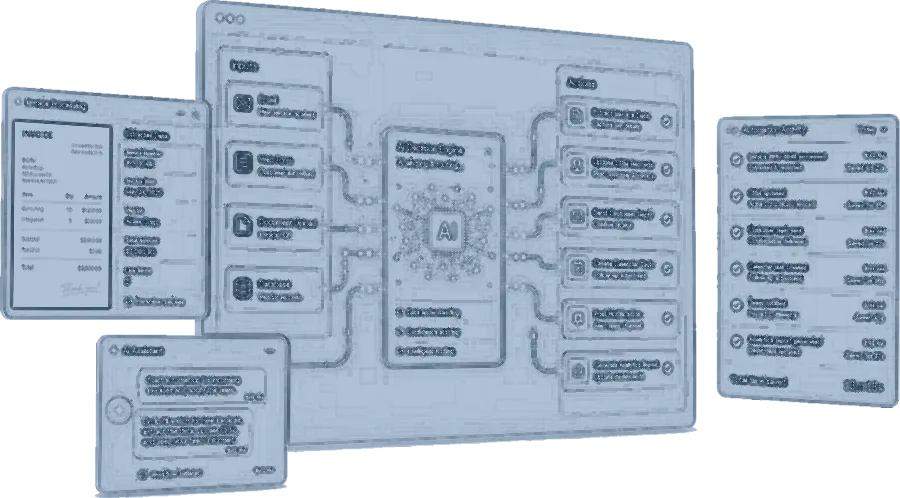
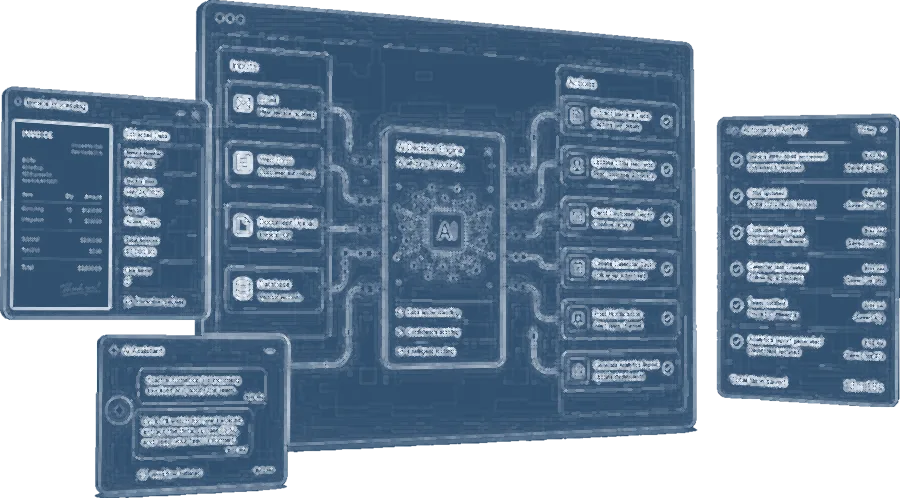
Lift the plate ground instead of turning the drawing over
Reverts the pale panel. A light slab on navy stock is a sticker stuck to the
page -- the failure already recorded against 07's action panel -- and it made
every plate the brightest thing in its chapter.

But the first struck version cannot come back either, and the number says why:
its ground sat at luma 0.235 against a page of 0.204. Three hundredths is not a
plate, and no amount of brightening or thickening the strokes was going to make
one, which is what the last two revisions spent themselves finding out. The
missing thing was the panel, not the ink.

So both colours move and the drawing stays struck. GROUND #31506f is 0.37 --
far enough above the page to read as a panel, nowhere near pale enough to read
as paper. STROKE #f2f7fd is 0.96, brighter than the book's own silver at 0.895,
so the drawing is the brightest thing inside the plate rather than in the
chapter. Medians land 0.30 to 0.42 against the same 0.2036 page, clearing it by
0.17 where the first version cleared it by 0.03.

The negate and Dilate come back with it. Dilate grows the bright region and the
strokes are bright again; the pale revision needed Erode for the same reason
inverted. Turning the drawing over without turning the operator over eats it.

Redrawn from the photographs at 445aec1, not from the sketches: not idempotent.

QA: four viewports, all exit 0, pinned scrollHeight 7911 unchanged.

Claude-Session: https://claude.ai/code/session_01XfAX2YSArtGBqSyEfKFt98

diff --git a/CLAUDE.md b/CLAUDE.md
@@ -1217,28 +1217,35 @@ re-run here.
 - **It is not idempotent.** Sketching a sketch finds edges in the first pass's
   own strokes and doubles them. `git checkout apps/web/public/{services,process,work}`
   before a second run, exactly as `stamp-book-logo.py` requires.
-- **It is graphite on paper, and it shipped struck first.** The first version
-  was made on white and then NEGATED — dark ground, silver strokes — to match
-  01's and 07's engravings, which are painted through luminance masks in
-  `#dce7f7`. It was unreadable. The ground landed at luma 0.235 against a page
-  of 0.204, which is no visible plate at all, and what sat on it was one-pixel
-  silver strokes; 03's six print at 132px. **The rule that actually binds is
-  only that a plate may not be DARKER than the page** — the hole-in-the-page
-  failure — and a light plate was never the problem: the photographs these
-  replace ran 0.29–0.55. So it is a pencil sketch the ordinary way round now, a
-  light panel with the book's own navy drawn on it, and the medians run
-  0.65–0.75.
-- **`INK` is a shade off the page and `PAPER` stops short of white.** A stroke
-  at `#22384f` (0.21) against a page of 0.204 reads as the paper showing
-  through rather than as a black line; `PAPER` at `#aec1d6` (0.72) rather than
-  0.83 keeps the plate from being a lit slab stuck on the page — the sticker
-  failure recorded against 07's action panel. The audit is still
-  `build-process-plates.sh`'s: the MEDIAN against a page luma sampled live off
-  `frame-091` (0.2036). Median and not minimum — a drawing is *supposed* to
-  contain strokes as dark as the page; what it may not be is darker overall.
-- **`PAPER` is the colour and `PAGE_LUMA` is the measurement.** They were both
-  called `PAPER` for one revision and the sampled luma overwrote the colour,
-  which would have fed `+level-colors` a number where it wanted a hex.
+- **It is struck on a LIFTED ground, and both colours had to move to get
+  there.** Two earlier settings of the same two colours failed in opposite
+  directions and both are worth knowing.
+
+  **Too dark.** The first struck version put the ground at luma 0.235 against a
+  page of 0.204 — 0.03 of separation, which is no visible plate at all — with
+  one-pixel silver strokes on it. 03's six print at 132px; nothing read.
+  Brightening and thickening the strokes twice did not fix it, because the
+  missing thing was the PANEL, not the ink.
+
+  **Too light.** So it was turned over: dark lines on a pale panel at 0.72.
+  That read perfectly and was still wrong — a pale slab on navy stock is a
+  sticker stuck to the page, the failure recorded against 07's action panel,
+  and it made every plate the brightest thing in its chapter.
+
+  **The middle is right.** `GROUND #31506f` (0.37) is far enough above the page
+  to read as a panel and nowhere near pale enough to read as paper;
+  `STROKE #f2f7fd` (0.96) is brighter than the book's own silver (0.895), so
+  the drawing is the brightest thing inside the plate rather than in the
+  chapter. Medians run 0.30–0.42.
+- **The audit is `build-process-plates.sh`'s**: the MEDIAN against a page luma
+  sampled live off `frame-091` (0.2036). Median and not minimum — a drawing is
+  *supposed* to contain strokes near the page's own value; what it may not be
+  is darker overall. The 0.37 ground clears it by 0.17 where the first struck
+  version cleared it by 0.03.
+- **The colour is `GROUND`/`STROKE`; the measurement is `PAGE_LUMA`.** The
+  light-panel revision called its colour `PAPER` and the sampled luma `PAPER`
+  too, and the second assignment silently overwrote the first — which would
+  have fed `+level-colors` a number where it wanted a hex.
 - **Two traps, both hit on the way in.** `%[fx:minima]` on an sRGB file is the
   darkest CHANNEL, and `#233c58` has a red of 0.137 against a luma of 0.235, so
   the first audit refused every plate. And 02's five are **keyed** — `srgba`,
@@ -1262,13 +1269,14 @@ re-run here.
   up as speckle with them. `DILATE=1` is the other half and it is thickness
   rather than brightness: one pixel added to every stroke.
 
-  **The thickening operator follows which way up the drawing is.** `Erode`
-  grows the DARK region, and the strokes are dark, so `Erode` is what fattens
-  them; the struck version wanted `Dilate` for the same reason inverted.
-  Swapping the drawing over without swapping the operator eats it instead of
-  thickening it. Whole pixels at both widths rather than a fraction of each,
-  because morphology takes whole-pixel kernels and 900 against 1240 does not
-  separate enough to matter.
+  **The thickening operator follows which way up the drawing is, and it has
+  been both.** `Dilate` grows the BRIGHT region; struck, the strokes are
+  bright, so `Dilate` fattens them. The light-panel revision needed `Erode` for
+  the same reason inverted. **Turn the drawing over without turning the
+  operator over and it eats the drawing instead of thickening it.** Whole
+  pixels at both widths rather than a fraction of each, because morphology
+  takes whole-pixel kernels and 900 against 1240 does not separate enough to
+  matter.
 - **The redactions survive**, and this was checked rather than assumed. 04's
   blurred boxes over invented client names are baked into the file this reads,
   a blurred region has no edges, and a sketch cannot recover what a blur
